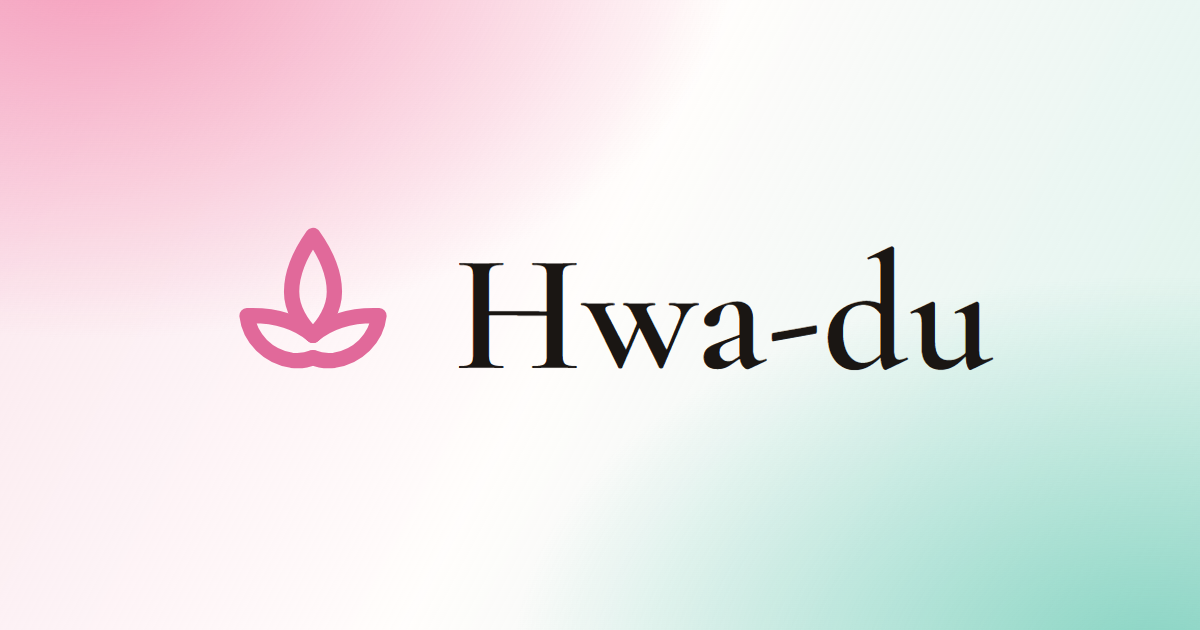
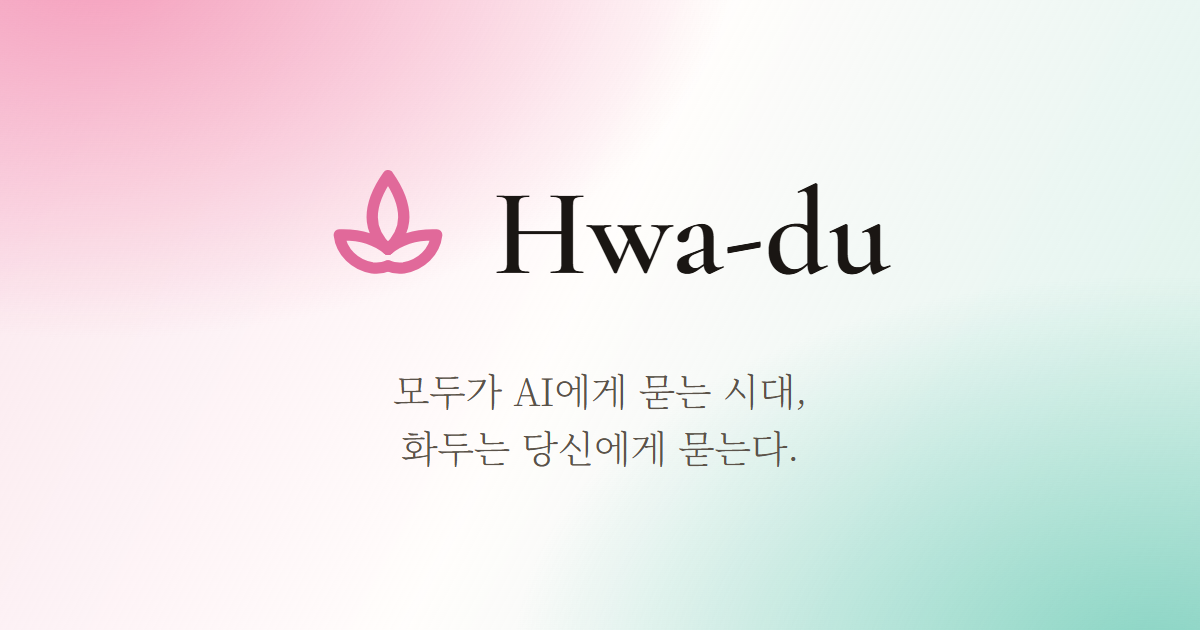
아래 띠를 뜬 알약으로, 썸넬에 한 줄을 얹는다
· 형이 시안 일곱 중 「라 · 뜬 알약」을 골랐다. 흰 캡슐 하나가 떠 있고
  그 안에 넷 — 꺼진 알도 제 이름(한자)을 달고 있어 어디를 눌러야 하는지
  가 늘 보인다. 커졌다 작아지던 몸짓은 걷었다. 자리가 안 움직여야 손이
  기억한다.
· 썸넬 — 형: 「Hwa-du / 모두가 AI에게 묻는 시대, 화두는 당신에게 묻는다.
  이렇게 가자」. 이름과 그 한 줄, 두 마디뿐이다.
· 담기 띠 자리가 7px 모자랐던 것도 같이 — 66 → 86px

Changed region(s): [[0.185, 0.2714, 0.8325, 0.6635], [0.3392, 0.6937, 0.6783, 0.754]]

diff --git a/src/app/hip.css b/src/app/hip.css
@@ -4071,3 +4071,69 @@ html[data-theme="light"] {
     ) !important;
   }
 }
+
+/* ── 아래 띠 「라 · 뜬 알약」 ───────────────────────────────────
+   형: 「아래 탭 디자인 고심해서 다시 줘 봐」 → 일곱 중 **라** 를 골랐다.
+
+   실에 꿴 알 넷은 셋이 걸렸다 —
+     ① 꺼진 알이 흰 바탕에 흰 알이라 어디를 눌러야 하는지가 약하다
+     ② 한자가 켜진 알에만 있어 나머지 셋은 제가 무엇인지 말을 못 한다
+     ③ 실이 가늘어 염주라기보다 슬라이더로 읽힌다
+   흰 캡슐 하나가 떠 있고 그 안에 넷을 앉힌다. 캡슐이 「여기가 길목」이라고
+   먼저 말하고, 넷이 저마다 이름을 단다. 지금 자리만 분홍으로 채운다.
+   커졌다 작아지던 몸짓은 걷는다 — 자리가 안 움직여야 손이 기억한다. */
+@media (min-width: 0px) {
+  .hip-mala {
+    height: auto;
+    gap: 0;
+    bottom: calc(env(safe-area-inset-bottom, 0px) + 16px);
+  }
+  .hip-mala-thread { display: none; }
+  .hip-mala-track {
+    display: flex;
+    align-items: center;
+    gap: 6px;
+    padding: 7px;
+    border-radius: 999px;
+    background: rgba(255, 255, 255, 0.96);
+    backdrop-filter: blur(8px);
+    box-shadow:
+      0 8px 24px rgba(190, 120, 145, 0.18),
+      0 1px 3px rgba(26, 23, 20, 0.07);
+  }
+  .hip-mala button {
+    width: 54px;
+    height: 42px;
+    min-width: 54px;
+    border-radius: 999px;
+    background: transparent;
+    box-shadow: none;
+    transition: background 0.22s, color 0.22s;
+  }
+  .hip-mala button b {
+    font-size: 17px;
+    color: #aaa195;
+    transition: color 0.22s;
+  }
+  .hip-mala button[data-on="1"] {
+    width: 54px;
+    height: 42px;
+    background: linear-gradient(150deg, #fbc7da, #ef7ba4);
+    box-shadow: 0 3px 10px rgba(226, 110, 155, 0.3);
+  }
+  .hip-mala button[data-on="1"] b {
+    font-size: 17px;
+    color: #fff;
+  }
+  .hip-mala button:active { background: rgba(26, 23, 20, 0.04); }
+  .hip-mala button[data-on="1"]:active {
+    background: linear-gradient(150deg, #fbc7da, #ef7ba4);
+  }
+
+  /* 담기 띠 자리 — 73px 이라 66 으로는 7px 이 모자랐다 */
+  body:has(.install-banner-on) .hip-screen {
+    padding-bottom: calc(
+      env(safe-area-inset-bottom, 0px) + var(--hip-rail) + 86px
+    ) !important;
+  }
+}

diff --git a/src/components/HipMala.tsx b/src/components/HipMala.tsx
@@ -60,7 +60,12 @@ export default function HipMala() {
 
   return (
     <nav className="hip-mala" aria-label="네 자리">
-      <i aria-hidden className="hip-mala-thread" />
+      {/* 형이 시안 일곱 중 「라 · 뜬 알약」을 골랐다.
+          실에 꿴 알 넷은 꺼진 알이 흰 바탕에 흰 알이라 **어디를 눌러야
+          하는지**가 약했고, 한자가 켜진 알에만 있어 나머지 셋은 제가
+          무엇인지 말하지 못했다. 흰 캡슐 하나가 떠 있고 그 안에 넷 —
+          경계가 또렷하고, 넷 다 제 이름을 달고 있다. */}
+      <span className="hip-mala-track">
       {BEADS.map((b, k) => (
         <button
           key={b.href}
@@ -88,6 +93,7 @@ export default function HipMala() {
           <b>{b.mark}</b>
         </button>
       ))}
+      </span>
     </nav>
   );
 }

diff --git a/src/app/globals.css b/src/app/globals.css
@@ -877,3 +877,5 @@ html[data-focus="1"] #scroll-box {
 /* 손대기 */
 
 /* 손대기 */
+
+/* 손대기 */
